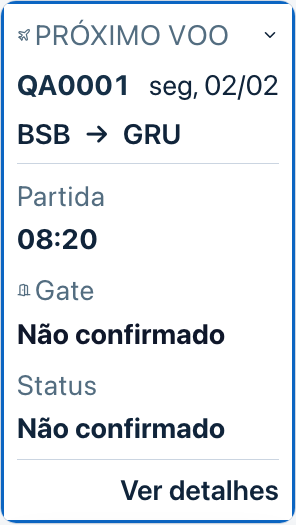
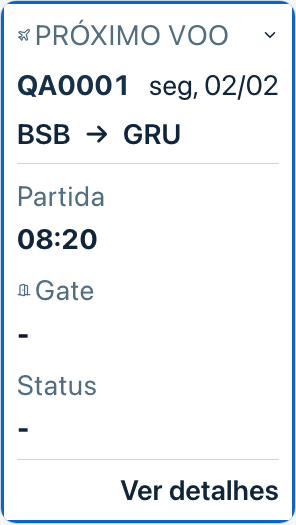
fix(ui): clarify regulation milestones and accessible unknown fields

Changed region(s): [[0.0608, 0.7924, 0.7601, 0.8533], [0.0608, 0.6095, 0.7601, 0.6705]]

diff --git a/client/src/components/regulation/RegulationAutomaticView.tsx b/client/src/components/regulation/RegulationAutomaticView.tsx
@@ -12,7 +12,7 @@ import type {ScheduleDayLike} from '@/components/v1432/ManualRegulationView';
 import RegulationNavigationContext from './RegulationNavigationContext';
 import './regulation-scenario.css';
 
-const localClock=(instant:string|null,offset:string)=>{if(!instant||!/^([+-])\d{2}:\d{2}$/.test(offset))return '—';const sign=offset[0]==='-'?-1:1,shift=sign*(Number(offset.slice(1,3))*60+Number(offset.slice(4)))*60_000;return new Date(Date.parse(instant)+shift).toISOString().slice(0,16).replace('T',' · ');};
+const localClock=(instant:string|null,offset:string)=>{if(!instant||!/^([+-])\d{2}:\d{2}$/.test(offset))return '-';const sign=offset[0]==='-'?-1:1,shift=sign*(Number(offset.slice(1,3))*60+Number(offset.slice(4)))*60_000;return new Date(Date.parse(instant)+shift).toISOString().slice(0,16).replace('T',' · ');};
 type Props={scheduleDay:ScheduleDayLike;program?:CanonicalRosterEvent|null;compliance?:{legalProfile?:LegalProfileSummary};operationalArrival?:RegulationOperationalArrivalInput|null;onManual:()=>void};
 export default function RegulationAutomaticView({scheduleDay,program,compliance,operationalArrival,onManual}:Props){
  const session=useRef(captureAuthSession()),[invalidated,setInvalidated]=useState(false),details=useRef<HTMLElement>(null),[editing,setEditing]=useState(false);
@@ -50,8 +50,8 @@ export default function RegulationAutomaticView({scheduleDay,program,compliance,
   <section className="cc-reg-scenario-result" aria-label="Resultado automático condicional" data-state={assessment.state}>
    <span>REFERÊNCIA AUTOMÁTICA · HIPÓTESE</span>
    <div className="cc-reg-deadlines">
-    <div><h2><Clock size={18} aria-hidden="true"/> Limite da jornada</h2><strong>{localClock(assessment.normalDutyEnd,form.offset).split(' · ').at(-1)}</strong><small>{localClock(assessment.normalDutyEnd,form.offset).split(' · ')[0]}</small></div>
-    <div><h2><Power size={18} aria-hidden="true"/> Corte dos motores</h2><strong>{localClock(assessment.engineStopLimit,form.offset).split(' · ').at(-1)}</strong><small>{localClock(assessment.engineStopLimit,form.offset).split(' · ')[0]}</small></div>
+    <div><h2><Power size={18} aria-hidden="true"/> Corte dos motores</h2><strong role={!assessment.engineStopLimit ? 'img' : undefined} aria-label={!assessment.engineStopLimit ? 'Corte dos motores: limite previsto não calculável' : undefined}>{localClock(assessment.engineStopLimit,form.offset).split(' · ').at(-1)}</strong>{assessment.engineStopLimit&&<small>{localClock(assessment.engineStopLimit,form.offset).split(' · ')[0]}</small>}</div>
+    <div><h2><Clock size={18} aria-hidden="true"/> Fim da jornada</h2><strong role={!assessment.normalDutyEnd ? 'img' : undefined} aria-label={!assessment.normalDutyEnd ? 'Fim da jornada: limite previsto não calculável' : undefined}>{localClock(assessment.normalDutyEnd,form.offset).split(' · ').at(-1)}</strong>{assessment.normalDutyEnd&&<small>{localClock(assessment.normalDutyEnd,form.offset).split(' · ')[0]}</small>}</div>
    </div>
    <div className="cc-reg-chips" aria-label="Hipóteses do cenário"><span title="Equipamentos reconhecidos somente nesta jornada">{assessment.aircraft.group==='NB'?'NB':assessment.aircraft.group==='WB'?'WB':assessment.aircraft.group==='mixed'?'Misto':'Equipamento ?'}</span><span title={composition}>{form.composition==='augmented'?'Composta':form.composition==='relief'?'Revezamento':form.composition==='simple'?'Simples*':'Composição ?'}</span><span title={clockSource}>{form.offset==='-03:00'?'BRT*':'UTC'+form.offset}</span><span title="Aclimatado é padrão ajustável do cenário, sem confirmação operacional">{form.acclimatization==='acclimatized'?'Aclimatado*':'Aclimatação ?'}</span></div>
    <small className="cc-reg-hypothesis"><Info size={14} aria-hidden="true"/> * Hipóteses ajustáveis</small>
@@ -82,6 +82,6 @@ export default function RegulationAutomaticView({scheduleDay,program,compliance,
    <button type="button" onClick={()=>{setDraft({key:signature,overrides:{}});setForecastMode('automatic');}}><RotateCcw aria-hidden="true"/> Restaurar dados da escala</button>
    <button type="button" onClick={onManual}>Simulação manual</button>
   </section>}
-  <details className="cc-reg-scenario-details"><summary>Ver cálculo e regras <ChevronDown aria-hidden="true"/></summary><p>{assessment.reference?.source||'Sem referência calculável'}. Versão {assessment.version}.</p>{assessment.reference&&<p>{assessment.reference.sectors} etapa(s), apresentação {assessment.reference.startTime}, referência existente {assessment.reference.maxDutyMinutes} min. {assessment.referenceDutyEnd&&`Encerramento hipotético B.1: ${localClock(assessment.referenceDutyEnd,form.offset)}.`}</p>}<p>* Margem é a diferença até a referência do cenário; não confirma conformidade. Padrões: simples quando NB, aclimatado, tarefas zero e BRT como convenção. O atraso altera somente a previsão, sem ampliar limite. Chegada operacional substitui o atraso manual; não os soma.</p><p>Resultado numérico condicional separado da conformidade operacional. Composição, aclimatação, ACT/SGRF, repousos e acumulados não foram validados por estes padrões.</p><p>Corte no cenário = referência de encerramento − pós-voo parametrizado − tarefas. Chegada não é parada de motores. Pós-voo, tarefas e atrasos são hipóteses editáveis; o limite não recebe minutos extras.</p><p>{assessment.aircraft.group==='unknown'?'Equipamento não classificado':`Catálogo ${assessment.aircraft.version}: ${assessment.aircraft.group}`}; somente equipamentos da jornada selecionada.</p></details>
+  <details className="cc-reg-scenario-details"><summary>Ver cálculo e regras <ChevronDown aria-hidden="true"/></summary><p>Corte dos motores e fim da jornada são limites previstos e condicionais do cenário, nessa ordem cronológica. Não confirmam corte real nem execução da jornada. O sinal - indica dado não confirmado ou limite não calculável; os motivos permanecem nos dados e nas regras deste cenário.</p><p>{assessment.reference?.source||'Sem referência calculável'}. Versão {assessment.version}.</p>{assessment.reference&&<p>{assessment.reference.sectors} etapa(s), apresentação {assessment.reference.startTime}, referência existente {assessment.reference.maxDutyMinutes} min. {assessment.referenceDutyEnd&&`Encerramento hipotético B.1: ${localClock(assessment.referenceDutyEnd,form.offset)}.`}</p>}<p>* Margem é a diferença até a referência do cenário; não confirma conformidade. Padrões: simples quando NB, aclimatado, tarefas zero e BRT como convenção. O atraso altera somente a previsão, sem ampliar limite. Chegada operacional substitui o atraso manual; não os soma.</p><p>Resultado numérico condicional separado da conformidade operacional. Composição, aclimatação, ACT/SGRF, repousos e acumulados não foram validados por estes padrões.</p><p>Corte no cenário = referência de encerramento − pós-voo parametrizado − tarefas. Chegada não é parada de motores. Pós-voo, tarefas e atrasos são hipóteses editáveis; o limite não recebe minutos extras.</p><p>{assessment.aircraft.group==='unknown'?'Equipamento não classificado':`Catálogo ${assessment.aircraft.version}: ${assessment.aircraft.group}`}; somente equipamentos da jornada selecionada.</p></details>
  </section>;
 }

diff --git a/client/src/components/regulation/RegulationScenarioView.tsx b/client/src/components/regulation/RegulationScenarioView.tsx
@@ -22,7 +22,7 @@ const session=()=>{const u=getStoredUser(),t=getToken();return u&&t&&!['visitor'
 const number=(s:string)=>/^\d+$/.test(s)?Number(s):null;
 const dateOf=(s?:string|null)=>{const m=String(s||'').match(/^(\d{2})\/(\d{2})\/(\d{4})$/);return m?`${m[3]}-${m[2]}-${m[1]}`:/^\d{4}-\d{2}-\d{2}$/.test(s||'')?s!:'';};
 const defaults=()=>({takeoff:'',normalEnd:'',offset:'',flight:'',delay:'0',taxi:'',postFlight:'',tasks:'',operation:'',extension:false,reviewed:false,publicationOffsetReviewed:false,composition:'',acclimatization:'unknown',limitSource:'Referência informada para esta simulação',limitBasis:'',presentation:'',presentationReviewed:false,acclimatizedClockReviewed:false,regime:'',timingChange:'flight-delay',changeReviewed:false,method:'schedule',plannedEnd:'',plannedEndSource:'',scheduledArrival:'',reviewRequired:false,manualLastActivity:'unknown'});
-function localClock(instant:string|undefined,offset:string){if(!instant||!/^([+-])(\d{2}):(\d{2})$/.test(offset))return '—';const sign=offset[0]==='-'?-1:1,shift=sign*(Number(offset.slice(1,3))*60+Number(offset.slice(4)))*60000;return new Date(Date.parse(instant)+shift).toISOString().slice(0,16).replace('T',' · ');}
+function localClock(instant:string|undefined,offset:string){if(!instant||!/^([+-])(\d{2}):(\d{2})$/.test(offset))return '-';const sign=offset[0]==='-'?-1:1,shift=sign*(Number(offset.slice(1,3))*60+Number(offset.slice(4)))*60000;return new Date(Date.parse(instant)+shift).toISOString().slice(0,16).replace('T',' · ');}
 // Optional admitted-host input. No current cache is promoted into admission and
 // no subscription/fetch is created here. captureAuthSession is continuity only;
 // the supplying host must separately confirm authenticated source authority.
@@ -100,8 +100,8 @@ export function DetailedRegulationScenarioView({scheduleDay,compliance,program,o
   <section className="cc-reg-scenario-result" aria-label="Resultado temporal" data-state={deadlines.marginMinutes===null?'indeterminate':deadlines.marginMinutes<0?'exceeds_temporal_reference':'within_temporal_reference'}>
    <span>{deadlines.normalDutyEnd?'REFERÊNCIA REVISADA · SIMULAÇÃO':'REFERÊNCIA A CONFIRMAR · SIMULAÇÃO'}</span>
    <div className="cc-reg-deadlines">
-    <div><h2>Limite normal da jornada</h2><strong>{localClock(deadlines.normalDutyEnd||undefined,form.offset).split(' · ').at(-1)}</strong><small>{deadlines.normalDutyEnd?localClock(deadlines.normalDutyEnd,form.offset).split(' · ')[0]+' · UTC'+form.offset:'Dados a confirmar'}</small></div>
-    <div><h2>Corte dos motores até</h2><strong>{localClock(deadlines.engineStopLimit||undefined,form.offset).split(' · ').at(-1)}</strong><small>{deadlines.engineStopLimit?localClock(deadlines.engineStopLimit,form.offset).split(' · ')[0]+' · UTC'+form.offset:'Confirme pós-voo e tarefas'}</small></div>
+    <div><h2>Corte dos motores</h2><strong role={!deadlines.engineStopLimit ? 'img' : undefined} aria-label={!deadlines.engineStopLimit ? 'Corte dos motores: limite previsto não calculável' : undefined}>{localClock(deadlines.engineStopLimit||undefined,form.offset).split(' · ').at(-1)}</strong>{deadlines.engineStopLimit&&<small>{localClock(deadlines.engineStopLimit,form.offset).split(' · ')[0]+' · UTC'+form.offset}</small>}</div>
+    <div><h2>Fim da jornada</h2><strong role={!deadlines.normalDutyEnd ? 'img' : undefined} aria-label={!deadlines.normalDutyEnd ? 'Fim da jornada: limite previsto não calculável' : undefined}>{localClock(deadlines.normalDutyEnd||undefined,form.offset).split(' · ').at(-1)}</strong>{deadlines.normalDutyEnd&&<small>{localClock(deadlines.normalDutyEnd,form.offset).split(' · ')[0]+' · UTC'+form.offset}</small>}</div>
    </div>
    {deadlines.marginMinutes!==null?<p className="cc-reg-margin" role="status">{deadlines.marginMinutes>=0?`${deadlines.marginMinutes} min de margem ${useOperational?'da previsão operacional':'da programação'}`:`Excede a referência em ${Math.abs(deadlines.marginMinutes)} min`}</p>:<p role="status">Falta confirmar: {(deadlines.missing.length?deadlines.missing:deadlines.marginMissing).slice(0,3).join(' · ')}{deadlines.missing.length>3?'…':''}.</p>}
    {deadlines.projectedDutyEnd&&<p>Encerramento previsto: <b>{localClock(deadlines.projectedDutyEnd,form.offset)}</b></p>}
@@ -119,7 +119,7 @@ export function DetailedRegulationScenarioView({scheduleDay,compliance,program,o
    <p>Recalcula a previsão. O atraso não aumenta o limite da jornada.</p>
   </section>
   {known&&(useOperational?operationalCrossesDate:result.crossesReferenceDate)&&<p role="status" className="cc-reg-scenario-warning">A projeção muda de data. Madrugadas e histórico precisam ser reavaliados.</p>}
-  <details className="cc-reg-scenario-details"><summary>Como foi calculado <ChevronDown aria-hidden="true"/></summary>
+  <details className="cc-reg-scenario-details"><summary>Como foi calculado <ChevronDown aria-hidden="true"/></summary><p>Corte dos motores e fim da jornada são limites previstos e condicionais do cenário, nessa ordem cronológica. Não confirmam corte real nem execução da jornada. O sinal - indica dado não confirmado ou limite não calculável; os motivos permanecem nos dados e nas regras deste cenário.</p>
   {!useOperational&&explanation&&<section className="cc-reg-scenario-details" aria-label="Concierge explica esta jornada">
    <h2>Concierge · Entenda esta jornada</h2>
    {explanation.facts.map((text:string,index:number)=><p key={index}>{text}</p>)}

diff --git a/client/src/components/nextflight/NextFlightGateCard.tsx b/client/src/components/nextflight/NextFlightGateCard.tsx
@@ -66,13 +66,13 @@ export function NextFlightGateCard({ events }: { events: readonly NextFlightLike
       <span className="cc-next-gate-identity"><strong>{info.flight}</strong><span>{flightDate(info)}</span></span>
       <span className="cc-next-gate-route">{info.origin || '—'} <span aria-label="para">→</span> {info.destination || '—'}</span>
       <span className="cc-next-gate-main">
-        <span className="cc-next-gate-departure"><small>Partida</small><b>{info.departure || 'Não informada'}</b></span>
+        <span className="cc-next-gate-departure"><small>Partida</small><b role={!info.departure ? 'img' : undefined} aria-label={!info.departure ? 'Partida não informada' : undefined}>{info.departure || '-'}</b></span>
         <span className="cc-next-gate-gate">
           <small><DoorOpen aria-hidden="true"/> Portão</small>
-          <b>{gate}</b>
+          <b role={!info.gate ? 'img' : undefined} aria-label={!info.gate ? 'Portão de embarque não confirmado' : undefined}>{info.gate ? gate : '-'}</b>
           {info.terminal && <em>Terminal {info.terminal}</em>}
         </span>
-        <span className="cc-next-gate-facts"><small>Status</small><b>{status}</b></span>
+        <span className="cc-next-gate-facts"><small>Status</small><b role={!info.status ? 'img' : undefined} aria-label={!info.status ? 'Status operacional não confirmado' : undefined}>{info.status || '-'}</b></span>
       </span>
       {info.manualGateUnlinked && <span role="note">Portão informado anteriormente preservado. Confirme o vínculo com este horário de voo no editor.</span>}
       {Boolean(info.operationalConflicts?.length) && <span role="note">Há divergência nos dados operacionais. Valores manuais foram preservados; dados automáticos conflitantes não confirmam a informação.</span>}
@@ -90,6 +90,7 @@ export function NextFlightGateCard({ events }: { events: readonly NextFlightLike
     </button>
     {open && <div className="cc-next-gate-details" id={detailsId}>
       <dl>
+        <div><dt>Portão de embarque</dt><dd>{gate}</dd></div>
         <div><dt>Trecho</dt><dd>{info.origin || '—'} → {info.destination || '—'}</dd></div>
         <div><dt>Apresentação</dt><dd>{info.presentation || 'Não informada'}</dd></div>
         <div><dt>Terminal</dt><dd>{info.terminal || 'Não informado'}</dd></div>

diff --git a/client/src/components/CanonicalDutyCard.tsx b/client/src/components/CanonicalDutyCard.tsx
@@ -14,11 +14,11 @@ export function CanonicalDutyCard({ measurement, onOpen }: { measurement: Canoni
   return <div className="cc-canonical-duty-tools"><button type="button" className="cc-canonical-duty-card" onClick={onOpen}>
     <ShieldCheck aria-hidden="true" className="cc-canonical-duty-icon"/>
     <span className="cc-canonical-duty-copy">
-      <span className="cc-canonical-duty-heading"><strong>{measurement.label}</strong><b>{canonicalDutyDurationLabel(measurement.minutes)}</b></span>
+      <span className="cc-canonical-duty-heading"><strong>{measurement.label}</strong><b role={measurement.minutes === null ? 'img' : undefined} aria-label={measurement.minutes === null ? 'Duração pendente' : undefined}>{measurement.minutes === null ? '-' : canonicalDutyDurationLabel(measurement.minutes)}</b></span>
       <span>{measurement.date} · Base {measurement.base}</span>
       <span className="cc-canonical-duty-times">
-        <span><small>{measurement.label === 'Jornada publicada' ? 'Apresentação publicada' : 'Início publicado'}</small><b>{measurement.state === 'available' ? publishedClock(measurement.start) : 'Pendente'}</b></span>
-        <span><small>Liberação publicada</small><b>{measurement.state === 'available' ? publishedClock(measurement.end) : 'Pendente'}</b></span>
+        <span><small>{measurement.label === 'Jornada publicada' ? 'Apresentação publicada' : 'Início publicado'}</small><b role={measurement.state !== 'available' ? 'img' : undefined} aria-label={measurement.state !== 'available' ? 'Início publicado não comprovado' : undefined}>{measurement.state === 'available' ? publishedClock(measurement.start) : '-'}</b></span>
+        <span><small>Liberação publicada</small><b role={measurement.state !== 'available' ? 'img' : undefined} aria-label={measurement.state !== 'available' ? 'Liberação publicada não comprovada' : undefined}>{measurement.state === 'available' ? publishedClock(measurement.end) : '-'}</b></span>
         <span><small>Fuso</small><b>BRT</b><small>UTC−03</small></span>
       </span>
       <small className="cc-canonical-duty-status">Execução não confirmada · Limite pendente</small>

diff --git a/docs/reviews/home-flight-duty-layout-20261022.md b/docs/reviews/home-flight-duty-layout-20261022.md
@@ -58,3 +58,20 @@ Revalidação local após o achado: TypeScript e build canônicos PASS;6 casos d
 CI do HEAD publicado a6d3ff2daa8465478af43735e4c0659b80162184: o gate Web falhou no npm audit por DOMPurify<=3.4.16 herdado de main; a correção pertence à#1201 e permanece preservada. No HEAD inicial,15 workflows passaram,1 foi pulado e o Web falhou no audit. A atualização da draft foi autorizada; a CI do novo HEAD deve ser conferida separadamente. Não houve merge/deploy nem alteração de gates.
 
 Revalidação antes da atualização da draft: main e a ref da PR permaneceram em6269b510 e a6d3ff2d. As listas reais de arquivos dos84 outros PRs abertos foram novamente conferidas; apenas a composição histórica#1032 sobrepõe estes paths. Nenhum arquivo de CrewCierge,#1198,#919,#1200 ou#1201 foi alterado.
+
+
+## Ajustes solicitados em23/10: nomes e campos desconhecidos
+
+No resultado de Regulamentação, automático e manual, a ordem agora é **Corte dos motores → Fim da jornada**. Os campos continuam vinculados a engineStopLimit e normalDutyEnd respectivamente; nenhuma fórmula, regra, cenário, fuso ou previsão foi alterada. A indicação de limites previstos e condicionais permanece no cabeçalho e nos detalhes acessíveis. O resumo de reserva mantém início/liberação publicados: apresentação não foi rebatizada como corte.
+
+Campos desconhecidos do Próximo voo, duração/horários incompletos da jornada e limites não calculáveis mostram apenas o caractere ASCII `-`. Seus nomes acessíveis explicam o motivo, com role img para nomear o sinal, e os detalhes conservam “não confirmado”, razões e proveniência completos. Funções exportadas como gateSourceLabel e gateDisplay não foram alteradas. Não há fallback que confirme um valor ausente.
+
+Verificação local: check/build canônicos PASS;32 combinações da Home,128 casos de layout e6 do card PASS. As regressões automática, deadline, review-gates e UI compilada de regulamentação passam, incluindo três fusos, valores20:45/21:15, atraso sem ampliar limites, manual/OP/PS e dados ausentes. A falha inicial de asserção de espaços dos ícones foi corrigida normalizando apenas whitespace; as asserções antigas de em dash foram atualizadas para o sinal solicitado e para seletores por rótulo, sem remover verificações de valor. As regressões puras automatic-scenario e deadline-summary também passam. A regressão de portão passou sem alterar seleção, fontes ou persistência.
+
+Evidência adicional:16 combinações dos componentes reais de regulamentação com CSS de produção,320/390px, claro/escuro e fonte100/200%, com rótulos em ordem cronológica, dados desconhecidos acessíveis, detalhes por teclado e sem clipping. Este teste não aprova globalmente todos os estilos legados; previsão/margem no tema claro200% ainda têm contraste limitado por regras existentes e ficam na proposta separada de tokens, sem refatoração global nesta PR.
+
+![Regulamentação automática: valores sintéticos preservados,390px escuro](home-flight-duty-layout-20261022/390-dark-regulation-labels.png)
+
+![Somente os dois limites:320px claro200%, rótulos em ordem](home-flight-duty-layout-20261022/320-light-200-regulation-deadlines.png)
+
+A proposta pequena de cor e microinterações compartilhadas está em [shared-color-motion-proposal-20261023.md](shared-color-motion-proposal-20261023.md). É planejamento para outra PR, com reduced-motion, contraste, foco, desempenho e coordenação de owners; nenhum token ou animação global foi implementado aqui.

diff --git a/docs/reviews/shared-color-motion-proposal-20261023.md b/docs/reviews/shared-color-motion-proposal-20261023.md
@@ -1,0 +1,11 @@
+# Proposta separada: cor e microinterações compartilhadas
+
+Proposta para uma próxima PR; nenhuma mudança global de tema ou animação está incluída na #1204.
+
+1. **Poucos tokens semânticos.** Mapear superfície, texto, texto secundário, borda, ação, foco, informação, sucesso, risco e pendência nos temas claro/escuro. Reutilizar a paleta existente: ciano/azul para ação e informação, verde para sucesso, vermelho para risco e neutro para desconhecido. Amarelo/âmbar continuam exclusivos das alterações de escala. Tokens não tornam dado pendente em confirmado.
+2. **Piloto pequeno em primitivas.** Propor estados de repouso, hover quando houver ponteiro, pressionado, foco e disclosure em um botão e um card compartilhados. Conferir ownership real antes de editar: Radar #1198, footer #919, finanças #1200, segurança #1201 e CrewCierge #1203. Migrar uma superfície por PR após revisão; preservar handlers, navegação e preferências. Evitar seletores globais que redimensionam todos os spans e novos overrides em cascata.
+3. **Movimento somente como resposta.** Transições de cor/opacidade de120–180ms e feedback de pressão de80–120ms, com transform mínimo apenas quando não deslocar conteúdo. Expandir detalhes sem animar altura. Feedback de atualização acontece uma vez por ação; sem pulsação, brilho, carrossel ou animação contínua. Sem timers por card, novas bibliotecas ou trabalho extra a cada frame. Preferir propriedades de composição e cancelar efeitos ao desmontar.
+
+`prefers-reduced-motion: reduce` elimina deslocamentos, escalas e animações; estado final e feedback textual/foco aparecem imediatamente. Contraste mínimo de4,5:1 para texto e3:1 para controles/indicadores, incluindo foco e todos os estados. Cor nunca é o único sinal. Validar fonte100/200%, teclado, touch, temas e dispositivos modestos; medir frames, ausência de layout shift e estabilidade do scroll antes de ampliar o piloto.
+
+Primeira decisão solicitada: aprovar a paleta e os estados do piloto em uma pequena matriz visual. Só depois abrir uma PR independente de tokens/primitivas e coordenar migrações com os owners. Sem merge/deploy ou refatoração global implícitos nesta proposta.
